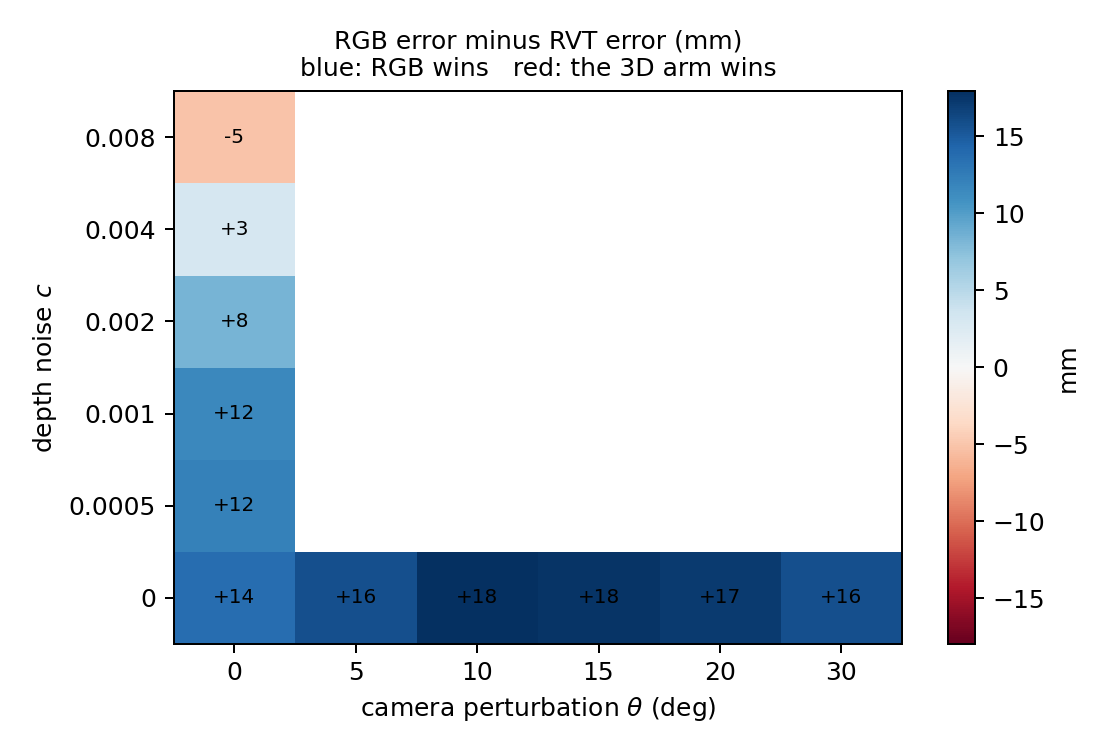
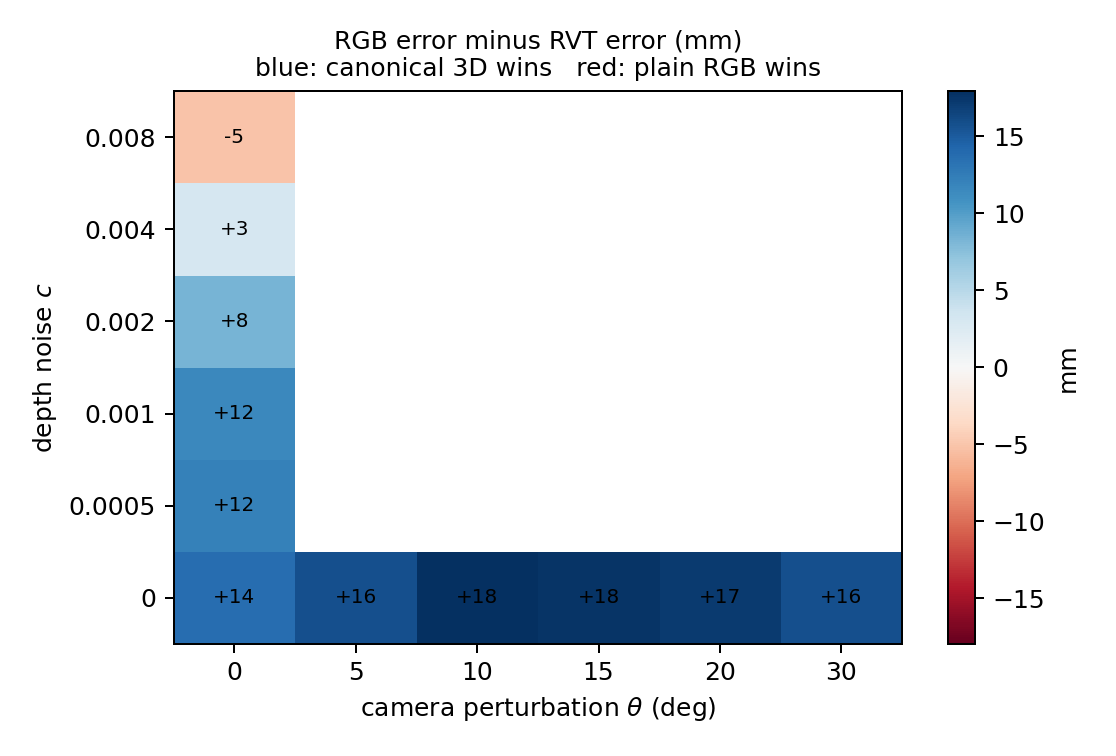
fix: crossover figure legend read backwards
The panel plots rgb_error minus rvt_error, so a positive cell means RGB is
worse and the 3D arm wins, and RdBu maps positive to blue. The caption said
'blue: RGB wins', inverting every cell in the figure.

Changed region(s): [[0.2437, 0.0608, 0.7312, 0.1217]]

diff --git a/scripts/make_figures.py b/scripts/make_figures.py
@@ -155,7 +155,14 @@ def main() -> None:
         ax.set_yticks(range(len(cnoises)), [f"{c:g}" for c in cnoises])
         ax.set_xlabel("camera perturbation $\\theta$ (deg)")
         ax.set_ylabel("depth noise $c$")
-        ax.set_title("RGB error minus RVT error (mm)\nblue: RGB wins   red: the 3D arm wins", fontsize=10)
+        # adv = rgb_error - rvt_error, so POSITIVE means RGB is worse, i.e. the
+        # 3D arm wins. RdBu maps high to blue, so blue is the 3D arm. The label
+        # said the opposite and would have read exactly backwards.
+        ax.set_title(
+            "RGB error minus RVT error (mm)\n"
+            "blue: canonical 3D wins   red: plain RGB wins",
+            fontsize=10,
+        )
         for i in range(len(cnoises)):
             for j in range(len(cthetas)):
                 if np.isfinite(adv[i, j]):

diff --git a/figures/cross/table1.md b/figures/cross/table1.md
@@ -1,0 +1,12 @@
+| arm | nominal | theta=30 | eps=5 | c=0.008 |
+|---|---|---|---|---|
+| proprio only (blind) | -- | 25.3 ± 0.0 | -- | 25.3 ± 0.0 |
+| proprio + joint angles | -- | 6.8 ± 0.1 | -- | 6.8 ± 0.1 |
+| RGB, regress | -- | 29.1 ± 1.1 | -- | 18.8 ± 0.5 |
+| RGB+D, regress | -- | 29.3 ± 0.7 | -- | 23.5 ± 1.0 |
+| RGB+XYZ camera frame | -- | 31.6 ± 4.9 | -- | 19.0 ± 4.5 |
+| DP3 point cloud, 1 cam | -- | 39.6 ± 2.9 | -- | 9.7 ± 0.5 |
+| DP3 point cloud, 4 cam world | -- | 9.7 ± 0.5 | -- | 10.5 ± 0.8 |
+| RGB+D, unproject | -- | 74.0 ± 2.9 | -- | 10.2 ± 0.2 |
+| RGB+XYZ real views | -- | 49.1 ± 1.1 | -- | 7.2 ± 0.6 |
+| RVT (canonical views) | -- | 13.0 ± 1.1 | -- | 24.8 ± 9.3 |
